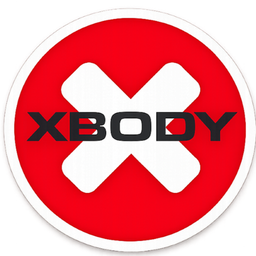
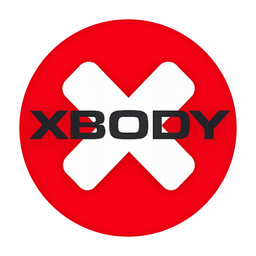
Студио + landing: топла слоеста тъмна тема (като прозореца XEMS), кръгло лого навсякъде (#1533)
* XB-Studio landing: phone first

- ~6 screens instead of 9: the numbers in one row, steps and rules as rows in one card, tighter effect tiles
- full-width download button; it stays under the thumb (dock) once the hero's button scrolls away and
  hides again at the final one; the header button gives way to it on phones
- bigger hero type, calmer spacing, smaller lock screen; safe-area aware

Claude-Session: https://claude.ai/code/session_012Ciutsx4T4EjaQscPzWWgs

* Studio app + landing: warm layered dark (as the XEMS window), round XBODY logo everywhere

- the logo file was an oval (924x891): the red disc made a true circle; app icons rebuilt from it —
  icon-only (iOS, white + circle), icon-foreground/background (Android adaptive, inside the safe zone, so the
  launcher and install screens no longer squeeze it); the studio's logo in the app replaced with the same
- app dark: #121014 / #1c1a1f / #26232a with warm red and plum ambient light instead of near-black
- landing dark: the same palette, lit background, lighter cards, red primary button; round mark in the header;
  fresh light/dark app screens

Claude-Session: https://claude.ai/code/session_012Ciutsx4T4EjaQscPzWWgs

---------

diff --git a/xb-studio.html b/xb-studio.html
@@ -12,7 +12,7 @@
 <meta property="og:description" content="Свободните часове, бързо записване и напомняния. За iPhone и Android.">
 <meta property="og:image" content="https://biocode.website/studio-app/landing/icon.png">
 <meta property="og:url" content="https://biocode.website/xb-studio.html">
-<link rel="icon" href="studio-app/landing/icon.png">
+<link rel="icon" href="studio-app/landing/mark.png">
 <link rel="apple-touch-icon" href="studio-app/landing/icon.png">
 <style>
 :root {
@@ -21,9 +21,10 @@
   --accent: #d32f2f; --edge: transparent; --bezel: #1b1b1e;
 }
 @media (prefers-color-scheme: dark) {
-  :root { --bg: #0a0a0c; --card: #161619; --ink: #f5f5f7; --muted: #a3a3ad; --line: rgba(255,255,255,.09);
-    --soft: rgba(255,92,84,.14); --shadow: 0 1px 2px rgba(0,0,0,.5), 0 18px 50px rgba(0,0,0,.55);
-    --accent: #ff6259; --edge: rgba(255,255,255,.08); --bezel: #2a2a2f; }
+  /* the XEMS window's dark: warm plum layers, never one flat black */
+  :root { --bg: #121014; --card: #24212a; --ink: #f3f1f4; --muted: #a8a2ab; --line: #34303a;
+    --soft: rgba(239,68,68,.16); --shadow: 0 1px 0 rgba(255,255,255,.04) inset, 0 18px 44px rgba(0,0,0,.45);
+    --accent: #f87171; --edge: rgba(255,255,255,.06); --bezel: #3a353f; }
 }
 * { box-sizing: border-box; }
 html { -webkit-text-size-adjust: 100%; scroll-behavior: smooth; }
@@ -41,7 +42,7 @@ p { margin: 0; }
 .top.scrolled { border-color: var(--line); }
 .top .wrap { display: flex; align-items: center; gap: 10px; height: 56px; }
 .brand { display: flex; align-items: center; gap: 10px; font-weight: 650; text-decoration: none; }
-.brand img { width: 30px; height: 30px; border-radius: 8px; }
+.brand img { width: 30px; height: 30px; border-radius: 50%; }
 .top .get { margin-left: auto; font-size: 15px; font-weight: 600; padding: 8px 16px; border-radius: 999px; background: var(--ink); color: var(--bg); text-decoration: none; }
 
 /* hero */
@@ -111,7 +112,7 @@ section { padding: 72px 0; }
   opacity: 0; transform: translateY(10px); transition: opacity .6s, transform .6s; }
 .in .note { opacity: 1; transform: none; }
 .in .note:nth-child(4) { transition-delay: .15s; } .in .note:nth-child(5) { transition-delay: .3s; }
-.note img { width: 36px; height: 36px; border-radius: 9px; flex: none; }
+.note img { width: 36px; height: 36px; border-radius: 50%; flex: none; }
 .note > div { flex: 1; min-width: 0; }
 .note b { display: flex; justify-content: space-between; gap: 10px; font-weight: 600; }
 .note b small { font-weight: 400; opacity: .7; font-size: 13px; }
@@ -291,17 +292,30 @@ footer .sp { margin-left: auto; }
 @media (max-width: 360px) { .stat .v { font-size: 30px; } .ben h3 { font-size: 15.5px; } }
 @media (max-width: 380px) { .phone { width: 190px; } .phones { height: 420px; } .btn span { font-size: 17px; } }
 @media (prefers-color-scheme: dark) {
-  /* cards keep their edge on a dark page (a shadow alone disappears) */
+  /* depth: a lit ambient background (as in the app), lighter cards, the brand red where it matters */
+  body { background: #121014; }
+  body::before { content: ""; position: fixed; inset: 0; z-index: -1; pointer-events: none; background:
+    radial-gradient(60vmax 40vmax at 85% -5%, rgba(239,68,68,.20), transparent 65%),
+    radial-gradient(50vmax 40vmax at -10% 35%, rgba(150,90,170,.14), transparent 65%),
+    radial-gradient(60vmax 45vmax at 50% 110%, rgba(239,68,68,.10), transparent 65%),
+    linear-gradient(180deg, #19161c 0%, #121014 50%, #0f0d11 100%); }
+  .top { background: color-mix(in srgb, #19161c 72%, transparent); }
   .card, .rule, .ben, .place, .meters, .stat, .lock, .qr, .btn.alt { box-shadow: inset 0 0 0 1px var(--edge), var(--shadow); }
-  .stat:nth-child(1) { box-shadow: 0 20px 60px -20px rgba(229,57,53,.55); }
-  .stat:nth-child(2) { background: linear-gradient(150deg, #24242a, #141417); }
-  .glow { background: radial-gradient(closest-side, rgba(255,72,62,.32), transparent); }
-  .phone { box-shadow: 0 0 0 1px rgba(255,255,255,.14) inset, 0 0 0 1px rgba(0,0,0,.6), 0 40px 90px -20px rgba(0,0,0,.8), 0 0 80px -30px rgba(255,72,62,.35); }
-  .phone .scr { background: #0b0b0e; }
-  .top .get, .btn.main { background: #f5f5f7; color: #0a0a0c; }
-  .bi, .num { box-shadow: 0 10px 28px -10px rgba(255,72,62,.65); }
-  .final img.ic { box-shadow: 0 0 0 1px var(--edge), 0 20px 60px -20px rgba(255,72,62,.45); }
-  .hero h1 em { background: linear-gradient(120deg, #ff5a50, #ff8a7a); -webkit-background-clip: text; background-clip: text; }
+  .why .stats .stat:nth-child(2) { background: linear-gradient(150deg, #2f2b35, #211e25); }
+  .stat:nth-child(1) { box-shadow: 0 22px 60px -22px rgba(239,68,68,.6); }
+  .ben::before { background: radial-gradient(closest-side, rgba(239,68,68,.16), transparent); }
+  .glow { background: radial-gradient(closest-side, rgba(239,68,68,.34), transparent); }
+  .phone { box-shadow: 0 0 0 1px rgba(255,255,255,.12) inset, 0 40px 90px -20px rgba(0,0,0,.75), 0 0 90px -30px rgba(239,68,68,.4); }
+  .phone .scr { background: #121014; }
+  .btn.main { background: linear-gradient(160deg, #ef4444, #b91c1c); color: #fff; box-shadow: 0 14px 34px -12px rgba(239,68,68,.7), inset 0 1px 0 rgba(255,255,255,.22); }
+  .btn.alt { background: #24212a; }
+  .bi, .num { box-shadow: 0 10px 28px -10px rgba(239,68,68,.7); }
+  .rule .ico { background: rgba(239,68,68,.16); }
+  .lock { background: radial-gradient(120% 80% at 20% 0%, #6a2226, transparent 60%), radial-gradient(90% 70% at 100% 100%, #3a1d40, transparent 60%), #1a171d; }
+  .final img.ic { box-shadow: 0 0 0 1px var(--edge), 0 20px 60px -20px rgba(239,68,68,.5); }
+  .hero h1 em { background: linear-gradient(120deg, #f87171, #fca5a5); -webkit-background-clip: text; background-clip: text; }
+  .dock .btn { box-shadow: 0 16px 40px -10px rgba(0,0,0,.6), 0 10px 30px -14px rgba(239,68,68,.6); }
+  footer { background: rgba(0,0,0,.18); }
 }
 </style>
 </head>
@@ -309,7 +323,7 @@ footer .sp { margin-left: auto; }
 
 <header class="top" id="top">
   <div class="wrap">
-    <a class="brand" href="#"><img src="studio-app/landing/icon.png" alt="">XB-Studio</a>
+    <a class="brand" href="#"><img src="studio-app/landing/mark.png" alt="">XB-Studio</a>
     <a class="get" href="#get" data-dl>Изтегли</a>
   </div>
 </header>
@@ -386,8 +400,8 @@ footer .sp { margin-left: auto; }
       <div class="lock rise" id="lock" aria-hidden="true">
         <div class="time">19:00</div>
         <div class="date">неделя, 15 ноември</div>
-        <div class="note"><img src="studio-app/landing/icon.png" alt=""><div><b>XBODY <small>сега</small></b>Утре в 08:45 — очакваме те.</div></div>
-        <div class="note"><img src="studio-app/landing/icon.png" alt=""><div><b>Твоята седмица · XBODY <small>18:00</small></b>Пн 08:45 · Ср 18:30 · Пт 13:15</div></div>
+        <div class="note"><img src="studio-app/landing/mark.png" alt=""><div><b>XBODY <small>сега</small></b>Утре в 08:45 — очакваме те.</div></div>
+        <div class="note"><img src="studio-app/landing/mark.png" alt=""><div><b>Твоята седмица · XBODY <small>18:00</small></b>Пн 08:45 · Ср 18:30 · Пт 13:15</div></div>
       </div>
       <div>
         <div class="kicker rise">Напомняния</div>

diff --git a/studio.html b/studio.html
@@ -425,14 +425,26 @@ label.f input, label.f select, label.f textarea { background: var(--soft); borde
 :root { --bg: #f4f3f7; --card: rgba(255,255,255,.72); --card-solid: #fff; --soft: rgba(118,118,128,.10); --line: rgba(60,60,67,.10);
   --glass-edge: rgba(255,255,255,.75); --shadow: 0 1px 1px rgba(0,0,0,.03), 0 10px 30px rgba(17,12,34,.07); }
 @media (prefers-color-scheme: dark) {
-  :root { --bg: #0b0b0f; --card: rgba(30,30,34,.62); --card-solid: #1c1c1f; --soft: rgba(120,120,128,.18); --line: rgba(255,255,255,.08);
-    --glass-edge: rgba(255,255,255,.10); --shadow: 0 10px 30px rgba(0,0,0,.45); }
+  /* the XEMS window's dark: warm plum layers (#121014 → #1c1a1f → #26232a), never one flat black */
+  :root { --bg: #121014; --card: rgba(38,35,42,.74); --card-solid: #1c1a1f; --soft: rgba(255,255,255,.07); --line: #2e2a32;
+    --text: #f3f1f4; --muted: #a8a2ab; --faint: #5b5560; --slot-line: #3a353f;
+    --glass-edge: rgba(255,255,255,.09); --shadow: 0 1px 0 rgba(255,255,255,.03) inset, 0 14px 34px rgba(0,0,0,.42); }
 }
 body::before { content: ""; position: fixed; inset: -20vh -20vw; z-index: -1; pointer-events: none;
   background:
     radial-gradient(40vmax 34vmax at 12% 6%, color-mix(in srgb, var(--brand) 16%, transparent), transparent 70%),
     radial-gradient(42vmax 36vmax at 92% 22%, rgba(120,140,255,.14), transparent 70%),
     radial-gradient(46vmax 40vmax at 50% 108%, rgba(255,190,140,.16), transparent 70%), var(--bg); }
+@media (prefers-color-scheme: dark) {
+  body::before { background:
+    radial-gradient(44vmax 36vmax at 10% 0%, color-mix(in srgb, var(--brand) 24%, transparent), transparent 70%),
+    radial-gradient(44vmax 38vmax at 95% 30%, rgba(150,90,170,.16), transparent 70%),
+    radial-gradient(50vmax 42vmax at 50% 110%, rgba(239,68,68,.10), transparent 70%),
+    linear-gradient(180deg, #17141a 0%, #121014 45%, #100e12 100%); }
+  .slot { background: #26232a; border-color: #34303a; }
+  .pills button, .pills a { box-shadow: inset 0 0 0 1px var(--glass-edge), 0 4px 14px rgba(0,0,0,.25); }
+  .day.today:not(.sel), .facts .i { color: #f87171; }
+}
 .card, .sheet, .onb-card, .fab, .pills button, .pills a, .viewer-top {
   -webkit-backdrop-filter: blur(24px) saturate(1.8); backdrop-filter: blur(24px) saturate(1.8); }
 .card { background: var(--card); box-shadow: var(--shadow), inset 0 0 0 1px var(--glass-edge); border-radius: 24px; }
